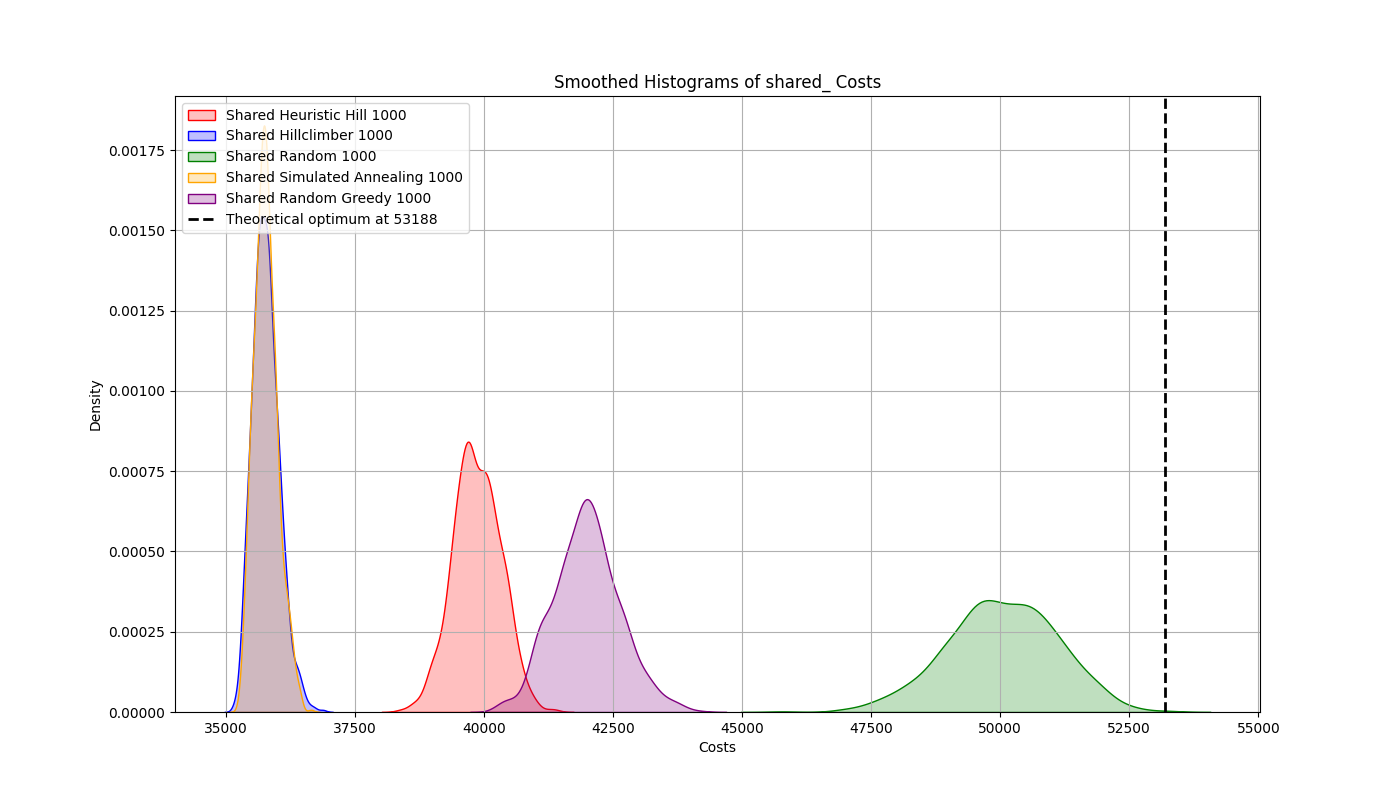
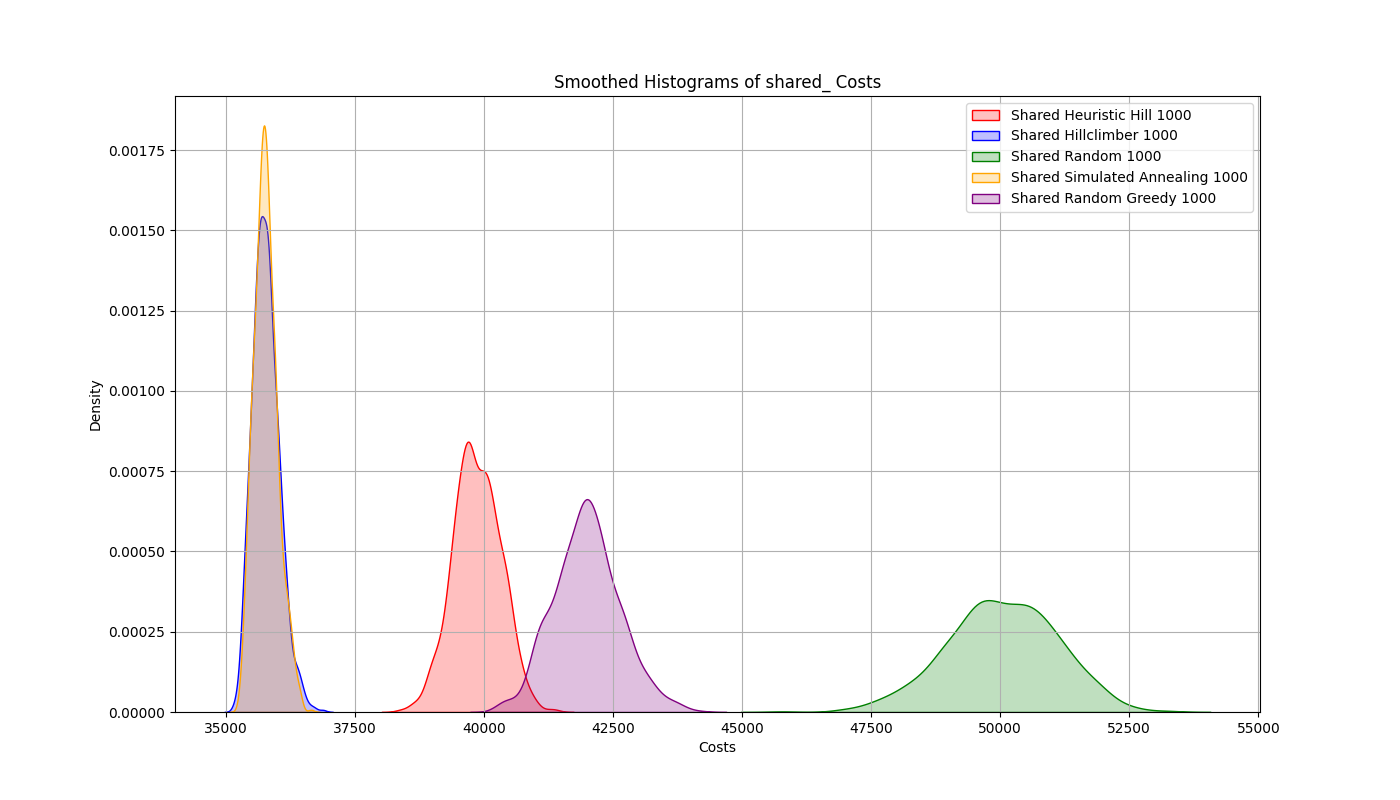
presentation graphs, Changed because of the theoretical optimum in the shared graphs (shouldnt be there.)

Changed region(s): [[0.1229, 0.125, 0.3379, 0.3125], [0.6757, 0.125, 0.8907, 0.2812]]

diff --git a/code/classes/district__preprocessed__.py b/code/classes/district__preprocessed__.py
@@ -1,6 +1,6 @@
 # NOTE: This file was automatically generated from:
-# /mnt/c/Users/Max/Downloads/Passionfruit/code/classes/district.py
-# DO NOT CHANGE DIRECTLY! 1706728084.1967525
+# /mnt/c/Users/stefa/Documents/algo&heur/Passionfruit/code/classes/district.py
+# DO NOT CHANGE DIRECTLY! 1706806869.3160703
 import json
 import csv
 import matplotlib.pyplot as plt
@@ -11,14 +11,14 @@ except ultraimport.ResolveImportError as e:
     try:
         (House,) = ultraimport('__dir__/house.py', objects_to_import=('House',), recurse=True)
     except ultraimport.ResolveImportError as e2:
-        raise ultraimport.RewrittenImportError(code_info=('from .house import House', '/mnt/c/Users/Max/Downloads/Passionfruit/code/classes/district.py', 5, 0), object_to_import='House', combine=[e, e2]) from None
+        raise ultraimport.RewrittenImportError(code_info=('from .house import House', '/mnt/c/Users/stefa/Documents/algo&heur/Passionfruit/code/classes/district.py', 5, 0), object_to_import='House', combine=[e, e2]) from None
 try:
     (Battery,) = ultraimport('__dir__/battery/__init__.py', objects_to_import=('Battery',), recurse=True)
 except ultraimport.ResolveImportError as e:
     try:
         (Battery,) = ultraimport('__dir__/battery.py', objects_to_import=('Battery',), recurse=True)
     except ultraimport.ResolveImportError as e2:
-        raise ultraimport.RewrittenImportError(code_info=('from .battery import Battery', '/mnt/c/Users/Max/Downloads/Passionfruit/code/classes/district.py', 6, 0), object_to_import='Battery', combine=[e, e2]) from None
+        raise ultraimport.RewrittenImportError(code_info=('from .battery import Battery', '/mnt/c/Users/stefa/Documents/algo&heur/Passionfruit/code/classes/district.py', 6, 0), object_to_import='Battery', combine=[e, e2]) from None
 
 class District:
 
@@ -249,7 +249,7 @@ class District:
         """
         data = [{'district': self._value, 'costs-own': self.calculate_own_costs(), 'costs-shared': self.calculate_shared_costs()}]
         for battery in self.batteries:
-            battery_info = {'location': battery.get_location(), 'capacity': battery.get_capacity(), 'houses': []}
+            battery_info = {'location': battery.get_location(), 'capacity': battery.capacity_output(), 'houses': []}
             for house in battery.get_houses():
                 house_info = {'location': house.get_location(), 'output': house.get_output(), 'cables': house.get_cables()}
                 battery_info['houses'].append(house_info)
@@ -284,15 +284,15 @@ class District:
                     dist_y = y_house - y_target_house
                     if dist_x <= 0:
                         for i in range(abs(dist_x)):
-                            house.add_cable(f'{x_house + i}, {y_house}')
+                            house.add_cable(f'{x_house + i},{y_house}')
                     elif dist_x >= 0:
                         for i in range(dist_x):
-                            house.add_cable(f'{x_house - i}, {y_house}')
+                            house.add_cable(f'{x_house - i},{y_house}')
                     if dist_y <= 0:
                         for i in range(abs(dist_y) + 1):
-                            house.add_cable(f'{x_house - dist_x}, {y_house + i}')
+                            house.add_cable(f'{x_house - dist_x},{y_house + i}')
                     elif dist_y >= 0:
                         for i in range(dist_y + 1):
-                            house.add_cable(f'{x_house - dist_x}, {y_house - i}')
+                            house.add_cable(f'{x_house - dist_x},{y_house - i}')
                 else:
                     continue

diff --git a/visualisation/presentation/graph_distribution.py b/visualisation/presentation/graph_distribution.py
@@ -4,7 +4,7 @@ import seaborn as sns
 import ultraimport
 theoretical_optimum = ultraimport('__dir__/theoretical_optimum.py', 'theoretical_optimum', recurse = True)
 
-def make_graphs(filename, text="", x_range=None):
+def make_graphs(filename, text="", theoretopt = 0 ,x_range=None,):
     # File paths for the CSV files
     if text != "":
         text = text + "_"
@@ -36,7 +36,9 @@ def make_graphs(filename, text="", x_range=None):
     # Plot each dataset
     for (name, dataframe), color in zip(datasets.items(), colors):
         sns.kdeplot(dataframe['solution'], fill=True, label=name, color=color)
-    plt.axvline(x=theoretical_optimum(), color='black', linestyle='--', linewidth=2, label=f'Theoretical optimum at {theoretical_optimum()}')
+    
+    if theoretopt == 1:
+        plt.axvline(x=theoretical_optimum(), color='black', linestyle='--', linewidth=2, label=f'Theoretical optimum at {theoretical_optimum()}')
     # Title and labels
     plt.title(f'Smoothed Histograms of {text} Costs')
     plt.xlabel('Costs')
@@ -58,7 +60,7 @@ make_graphs("shared_graph", "shared")
 make_graphs("shared_graph_zoomedin","shared", x_range=(35000, 37500))
 
 
-make_graphs("own_graph")
-make_graphs("own_graph_zoomedin", x_range=(53000, 58000))
+make_graphs("own_graph", theoretopt= 1)
+make_graphs("own_graph_zoomedin", x_range=(53000, 58000), theoretopt = 1)
 
 

diff --git a/code/classes/battery__preprocessed__.py b/code/classes/battery__preprocessed__.py
@@ -1,14 +1,24 @@
 # NOTE: This file was automatically generated from:
-# /mnt/c/Users/Max/Downloads/Passionfruit/code/classes/battery.py
-# DO NOT CHANGE DIRECTLY! 1706728084.2877662
-
+# /mnt/c/Users/stefa/Documents/algo&heur/Passionfruit/code/classes/battery.py
+# DO NOT CHANGE DIRECTLY! 1706806869.4306219
 class Battery:
 
     def __init__(self, x, y, capacity):
         self.x = int(x)
         self.y = int(y)
+        self.total_capacity = float(capacity)
         self.capacity = float(capacity)
         self.houses = []
+
+    def capacity_output(self):
+        """
+        returns the total capacity of the battery.
+
+        pre: none
+        post: float
+        
+        """
+        return self.total_capacity
 
     def get_location(self):
         """
